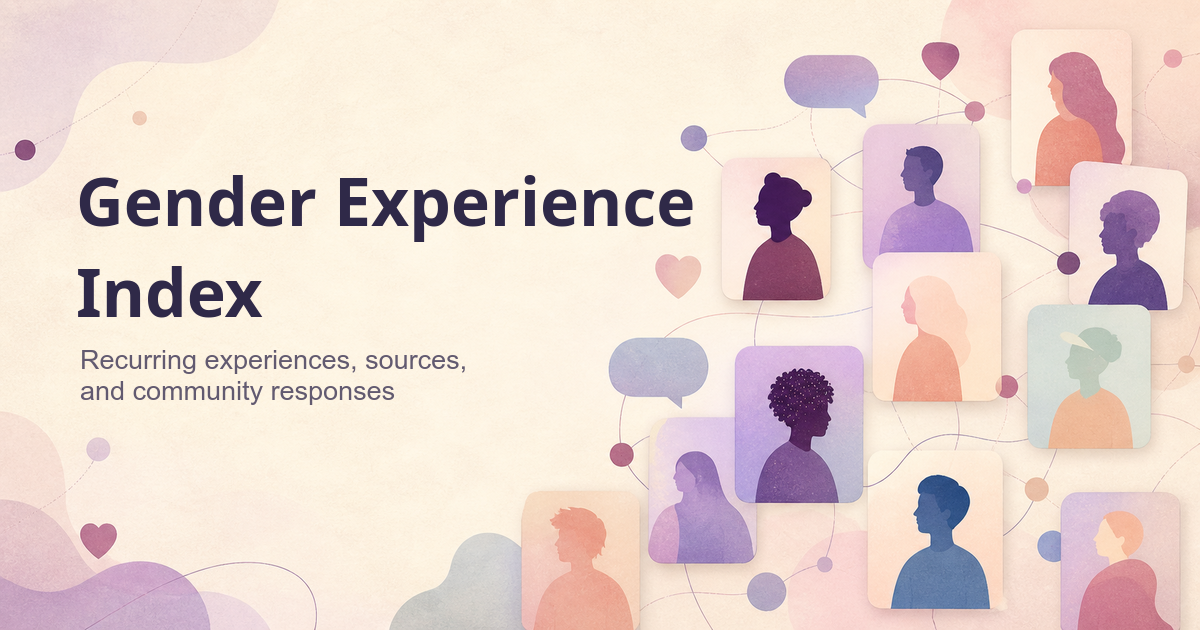
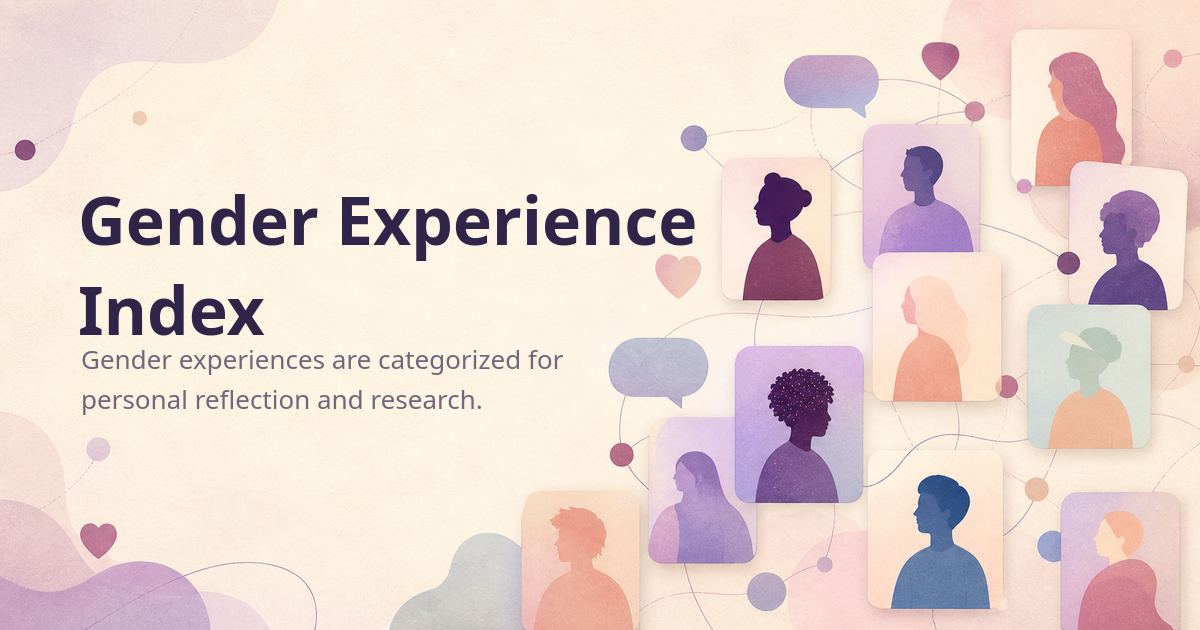
fix: clarify the catalog reference purpose

Changed region(s): [[0.0617, 0.4222, 0.4625, 0.6635], [0.0617, 0.2714, 0.5858, 0.4222]]

diff --git a/index.html b/index.html
@@ -5,7 +5,7 @@
     <meta name="viewport" content="width=device-width, initial-scale=1.0" />
     <meta
       name="description"
-      content="A browsable reference of recurring gender experiences."
+      content="This reference categorizes recurring gender experiences for personal reflection and research."
     />
     <meta name="robots" content="index,follow,max-image-preview:large" />
     <meta name="theme-color" id="theme-color" content="#fffdf8" />
@@ -35,14 +35,14 @@
     <meta property="og:site_name" content="Gender Experience Index" />
     <meta property="og:locale" content="en_US" />
     <meta property="og:title" content="Gender Experience Index" />
-    <meta property="og:description" content="A browsable reference of recurring gender experiences." />
+    <meta property="og:description" content="This reference categorizes recurring gender experiences for personal reflection and research." />
     <meta property="og:image" content="https://db.transnavi.jp/og-image.png" />
     <meta property="og:image:width" content="1200" />
     <meta property="og:image:height" content="630" />
     <meta property="og:image:alt" content="Gender Experience Index" />
     <meta name="twitter:card" content="summary_large_image" />
     <meta name="twitter:title" content="Gender Experience Index" />
-    <meta name="twitter:description" content="A browsable reference of recurring gender experiences." />
+    <meta name="twitter:description" content="This reference categorizes recurring gender experiences for personal reflection and research." />
     <meta name="twitter:image" content="https://db.transnavi.jp/og-image.png" />
     <link rel="apple-touch-icon" sizes="180x180" href="/apple-touch-icon.png" />
     <link rel="icon" href="/favicon.ico" sizes="any" />
@@ -53,7 +53,7 @@
     <link rel="icon" type="image/png" sizes="32x32" href="/favicon-32x32.png" />
     <link rel="icon" type="image/png" sizes="16x16" href="/favicon-16x16.png" />
     <script type="application/ld+json" id="structured-data">
-      {"@context":"https://schema.org","@graph":[{"@type":"WebSite","@id":"https://db.transnavi.jp/#website","url":"https://db.transnavi.jp/","name":"Gender Experience Index","description":"A browsable reference of recurring gender experiences.","inLanguage":"en"},{"@type":"DefinedTermSet","@id":"https://db.transnavi.jp/#index","url":"https://db.transnavi.jp/","name":"Gender Experience Index","description":"A browsable reference of recurring gender experiences.","inLanguage":"en","isPartOf":{"@id":"https://db.transnavi.jp/#website"}}]}
+      {"@context":"https://schema.org","@graph":[{"@type":"WebSite","@id":"https://db.transnavi.jp/#website","url":"https://db.transnavi.jp/","name":"Gender Experience Index","description":"This reference categorizes recurring gender experiences for personal reflection and research.","inLanguage":"en"},{"@type":"DefinedTermSet","@id":"https://db.transnavi.jp/#index","url":"https://db.transnavi.jp/","name":"Gender Experience Index","description":"This reference categorizes recurring gender experiences for personal reflection and research.","inLanguage":"en","isPartOf":{"@id":"https://db.transnavi.jp/#website"}}]}
     </script>
     <title>Gender Experience Index</title>
   </head>
@@ -96,7 +96,7 @@
     <main>
       <div class="intro">
         <h1>How people experience gender</h1>
-        <p>The index documents how gender dysphoria and euphoria are felt, expressed, and understood across transgender and gender-diverse communities.</p>
+        <p>This reference organizes experiences repeatedly described in transgender and gender-diverse communities, including gender dysphoria, gender euphoria, and preferences. It can support personal reflection and research, including queer studies.</p>
         <div class="intro-actions">
           <a class="submit-link" id="submit-experience" href="https://github.com/transnavi/DysphoriaDB/issues/new?template=experience.yml">Submit an experience <span aria-hidden="true">↗</span></a>
         </div>

diff --git a/site/i18n/ui/ja.js b/site/i18n/ui/ja.js
@@ -1,9 +1,10 @@
 export const ja = {
   ui: {
     siteName: "ジェンダー体験事典",
-    description: "ジェンダーにまつわる、繰り返し語られる体験を探せる資料です。",
+    description: "繰り返し語られるジェンダー体験を分類・整理し、自己理解や調査・研究のための資料として公開しています。",
+    datasetDescription: "繰り返し語られるジェンダー体験を、自己理解や調査・研究に活用できるよう分類・整理したデータです。",
     heading: "人はジェンダーをどう体験するか",
-    introduction: "トランスジェンダーや多様なジェンダーのコミュニティで語られる、性別違和と性別高揚感の感じ方・表れ方・捉え方をまとめています。",
+    introduction: "トランスジェンダーや多様なジェンダーのコミュニティで繰り返し語られてきた体験を、性別違和、性別高揚感、嗜好性などに分類して整理しています。自己理解の手がかりや、クィア・スタディーズを含む調査・研究の資料として利用できます。",
     submitExperience: "体験を投稿する",
     glossary: "とらんすナビ用語集",
     languageLabel: "表示言語",

diff --git a/site/i18n/ui/en.js b/site/i18n/ui/en.js
@@ -1,9 +1,10 @@
 export const en = {
   ui: {
     siteName: "Gender Experience Index",
-    description: "A browsable reference of recurring gender experiences.",
+    description: "This reference categorizes recurring gender experiences for personal reflection and research.",
+    datasetDescription: "This dataset categorizes recurring gender experiences for personal reflection and research.",
     heading: "How people experience gender",
-    introduction: "The index documents how gender dysphoria and euphoria are felt, expressed, and understood across transgender and gender-diverse communities.",
+    introduction: "This reference organizes experiences repeatedly described in transgender and gender-diverse communities, including gender dysphoria, gender euphoria, and preferences. It can support personal reflection and research, including queer studies.",
     submitExperience: "Submit an experience",
     glossary: "TransNavi glossary",
     languageLabel: "Language",

diff --git a/site/i18n/ui/zh-CN.js b/site/i18n/ui/zh-CN.js
@@ -1,9 +1,10 @@
 export const zhCN = {
   ui: {
     siteName: "性别体验索引",
-    description: "一份可浏览的常见性别体验参考资料。",
+    description: "本资料分类整理常见性别体验，可用于自我理解与相关研究。",
+    datasetDescription: "将常见性别体验分类整理，供自我理解与相关研究使用的数据集。",
     heading: "人们如何体验性别",
-    introduction: "本索引整理了跨性别与多元性别社群中，性别焦虑和性别欣快的感受、表现与理解方式。",
+    introduction: "本资料分类整理跨性别与多元性别社群反复提及的体验，涵盖性别焦虑、性别欣快、偏好等类别，可用于自我理解、资料查阅和酷儿研究。",
     submitExperience: "提交体验",
     glossary: "TransNavi 术语表",
     languageLabel: "显示语言",
